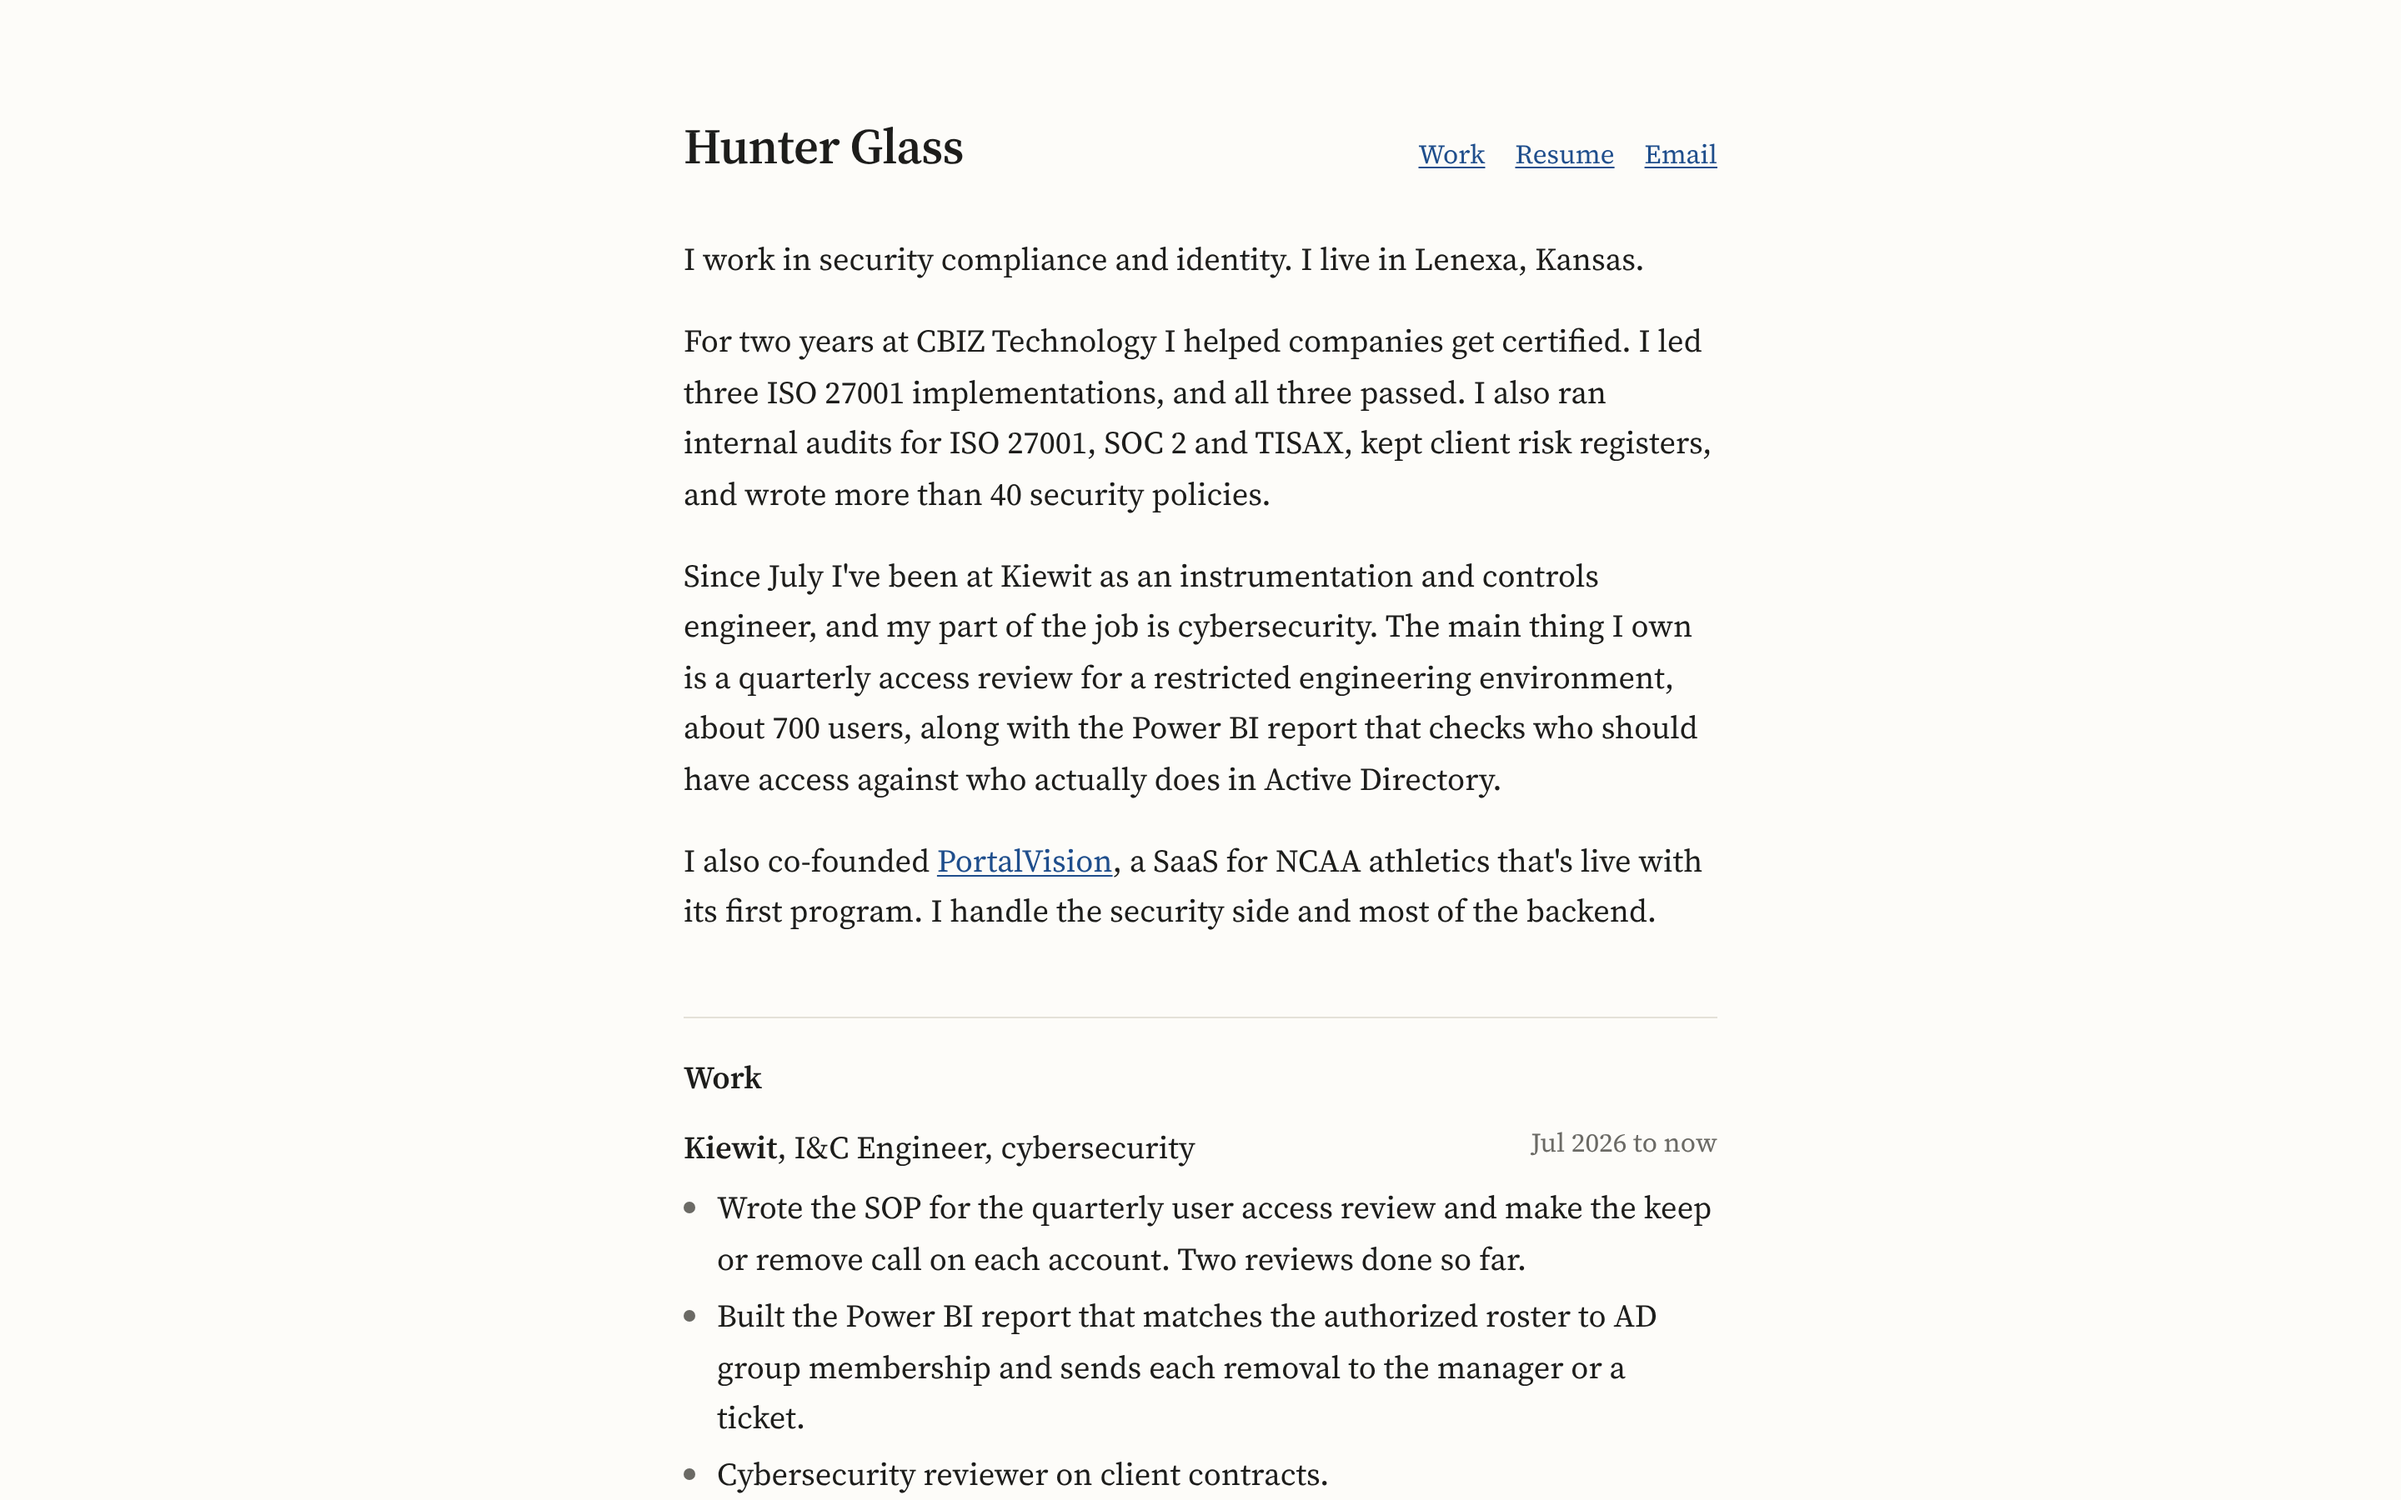
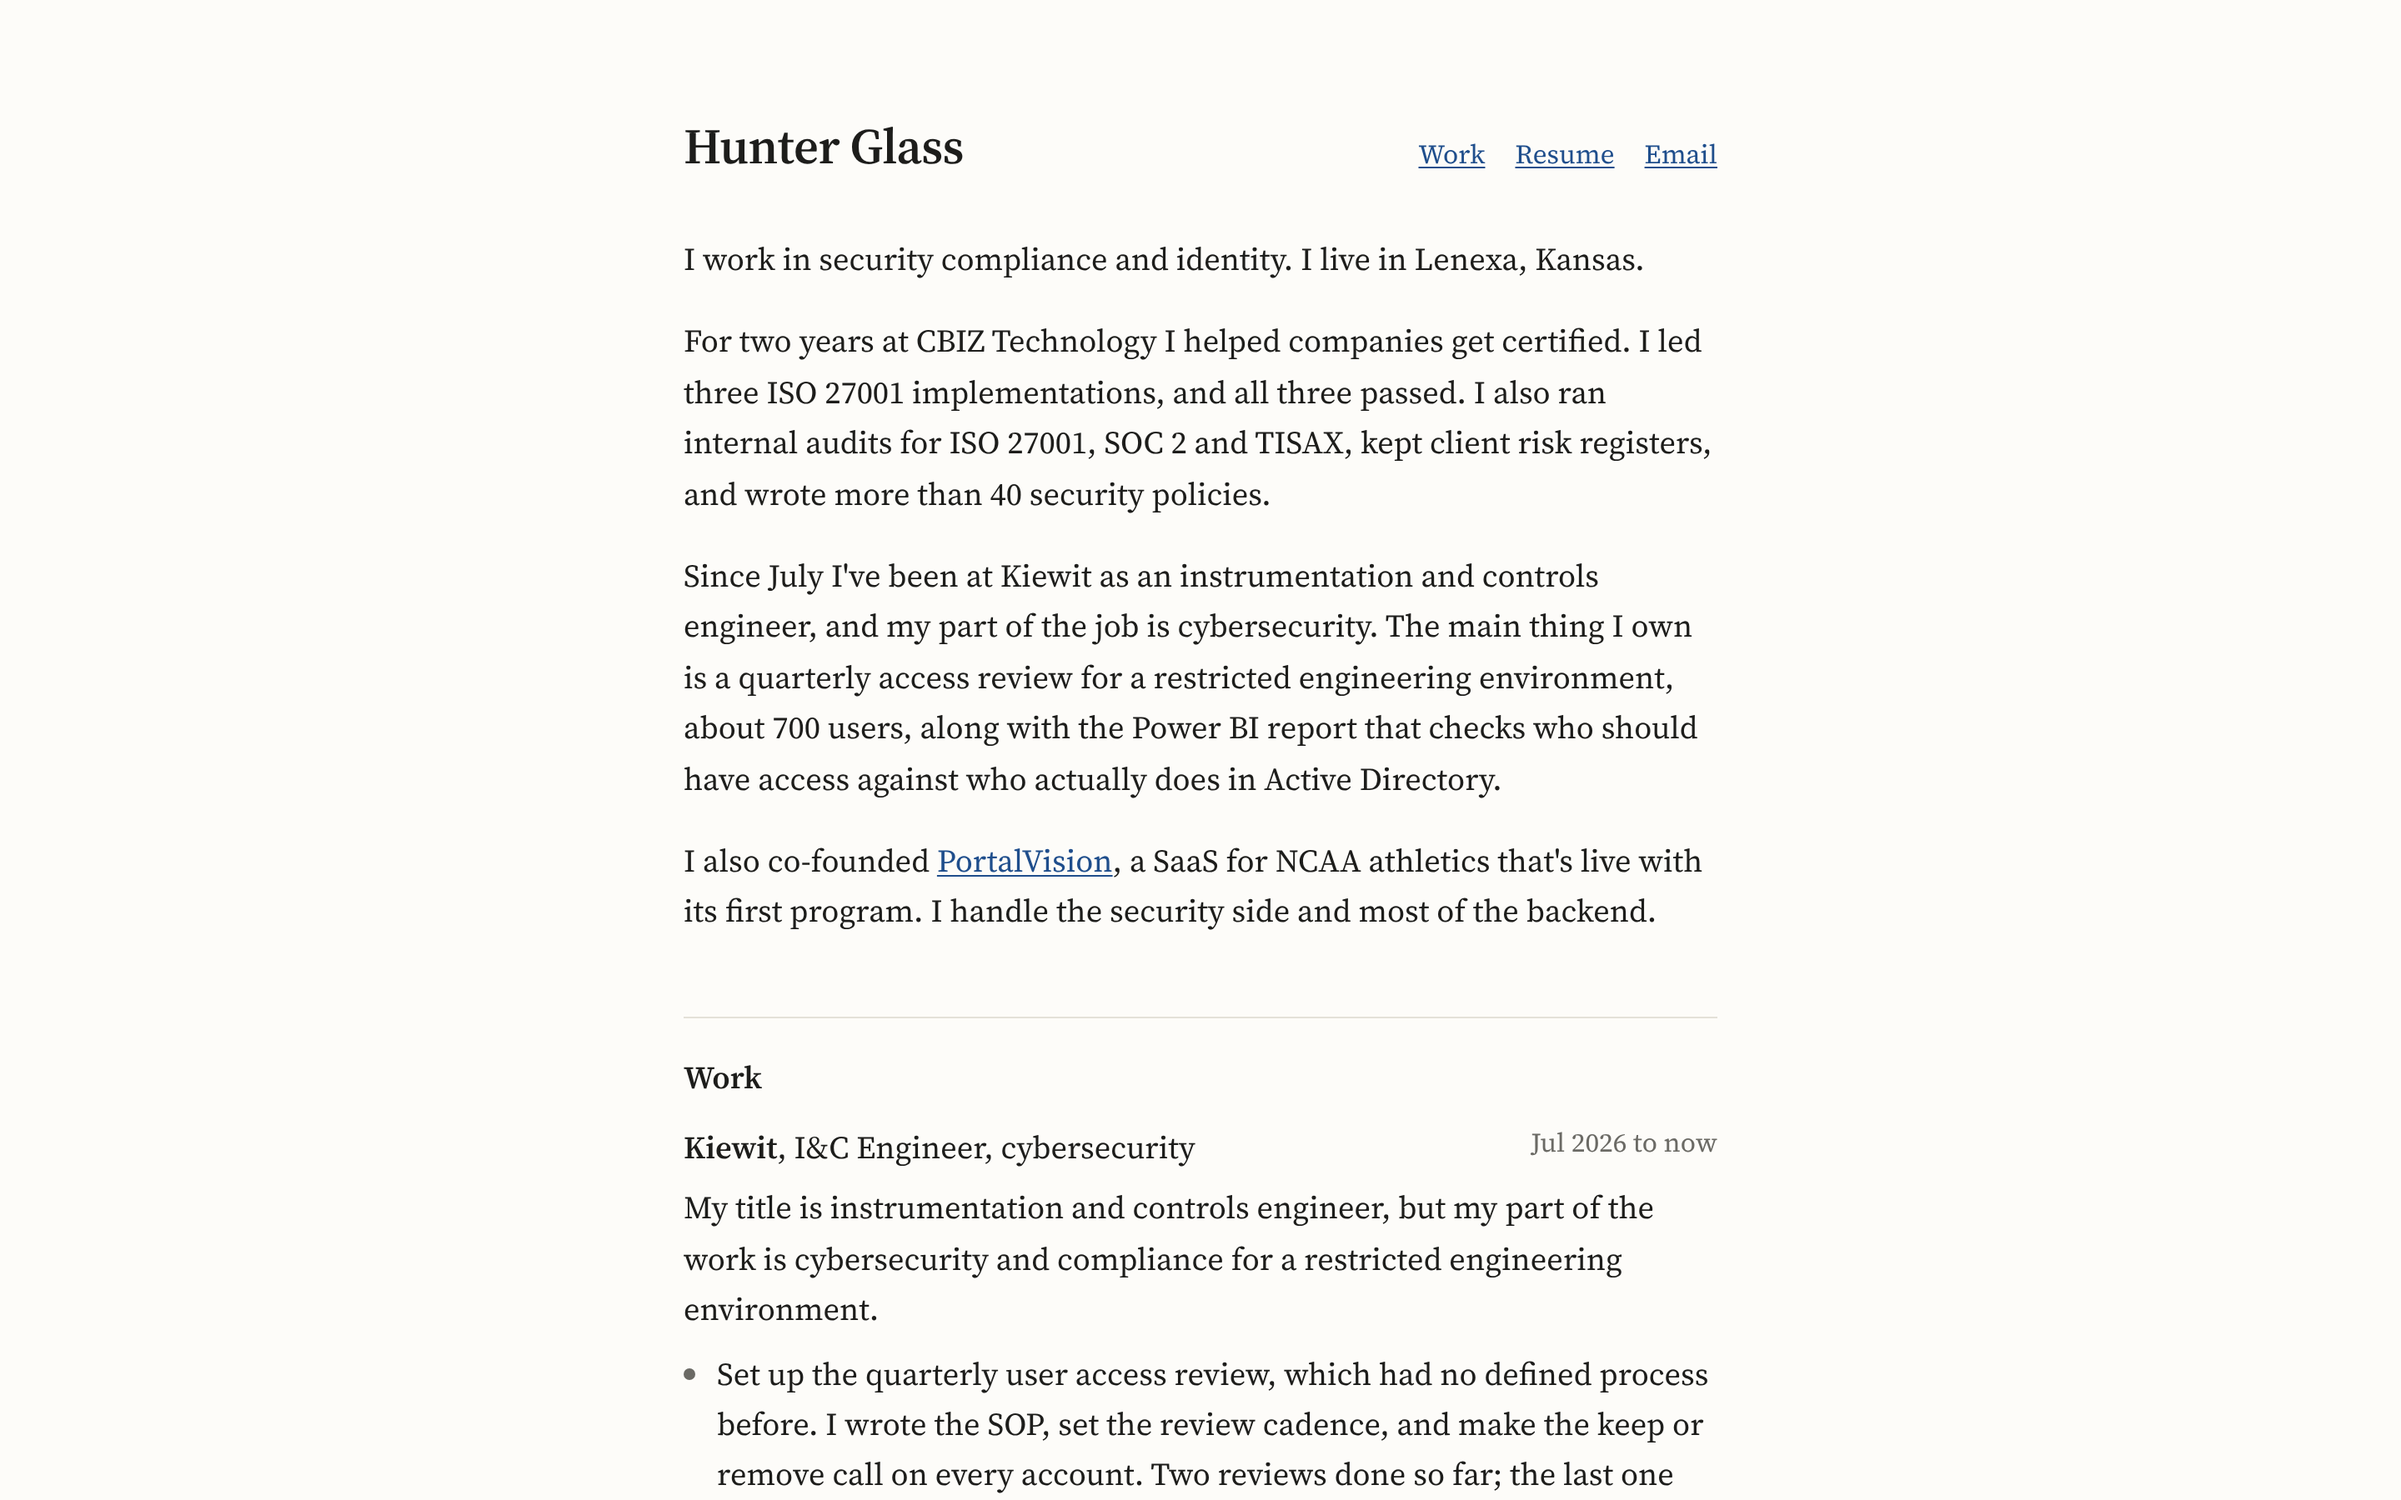
v2 mockup: more detail per role, drop defense client mention
Claude-Session: https://claude.ai/code/session_01DpS9wjtpXu1pRZzCnkWoig

Changed region(s): [[0.2812, 0.7778, 0.7188, 0.9956]]

diff --git a/mockup/v2/index.html b/mockup/v2/index.html
@@ -47,11 +47,12 @@
     }
     p { margin: 0 0 1em; }
 
-    .job { margin-bottom: 26px; }
+    .job { margin-bottom: 34px; }
     .job__top { display: flex; justify-content: space-between; gap: 16px; flex-wrap: wrap; }
     .job__top b { font-weight: 600; }
     .when { color: var(--dim); font-size: 16px; font-variant-numeric: tabular-nums; white-space: nowrap; }
-    .job ul { margin: 6px 0 0; padding-left: 20px; }
+    .job p { margin: 6px 0 0; }
+    .job ul { margin: 8px 0 0; padding-left: 20px; }
     .job li { margin-bottom: 4px; }
     .job li::marker { color: var(--dim); }
 
@@ -100,48 +101,67 @@
 
     <div class="job">
       <div class="job__top"><span><b>Kiewit</b>, I&amp;C Engineer, cybersecurity</span><span class="when">Jul 2026 to now</span></div>
+      <p>My title is instrumentation and controls engineer, but my part of the work is cybersecurity and compliance for a restricted engineering environment.</p>
       <ul>
-        <li>Wrote the SOP for the quarterly user access review and make the keep or remove call on each account. Two reviews done so far.</li>
-        <li>Built the Power BI report that matches the authorized roster to AD group membership and sends each removal to the manager or a ticket.</li>
-        <li>Cybersecurity reviewer on client contracts.</li>
-        <li>Drafted redlines to an industry working group's response to DOE grid cybersecurity policy. They made it into the final draft.</li>
+        <li>Set up the quarterly user access review, which had no defined process before. I wrote the SOP, set the review cadence, and make the keep or remove call on every account. Two reviews done so far; the last one covered about 700 users.</li>
+        <li>Built a Power BI report that joins the authorized roster to Active Directory group membership. It flags anyone in the group who lacks the required authorization or background check, and anyone whose access lapsed but who is still in the group, then routes each removal to their manager or a ticket.</li>
+        <li>Maintain the company's compliance documentation set.</li>
+        <li>Act as the cybersecurity reviewer on client contracts: I answer the security questions and send clients feedback on their security requirements.</li>
+        <li>Drafted redlines to an industry supply chain working group's response to DOE grid cybersecurity policy (Jul to Sep 2026). My redlines were adopted in the final draft.</li>
       </ul>
     </div>
 
     <div class="job">
       <div class="job__top"><span><b>PortalVision</b>, Co-founder</span><span class="when">Apr 2025 to now</span></div>
+      <p>A multi-tenant SaaS for NCAA athletics, live with its first program. I own the security and software stack.</p>
       <ul>
-        <li>Built the auth layer on Auth0: JWT and refresh-token validation (audience, issuer, user still active) and three levels of roles enforced in the database.</li>
-        <li>Tenant isolation, CORS and bearer-token checks on the API.</li>
-        <li>React, Spring Boot, PostgreSQL and Docker, hosted on Render.</li>
+        <li>Built the authentication layer on Auth0. The API validates JWTs and refresh tokens on audience, issuer, and whether the user is still active.</li>
+        <li>Designed three-tier role-based access (site admin, org admin, user) enforced in the application database, with tenant isolation across the data model so one program never sees another's data.</li>
+        <li>Locked down the API with a CORS policy and bearer-token checks on every call.</li>
+        <li>Own the Spring Security configuration, controllers, JPA layer, SQL schema and migrations.</li>
+        <li>Containerized development and deployment with Docker (Postgres, pgAdmin) and wrote the Python ingestion that loads data into Postgres.</li>
+        <li>Stack: React, Spring Boot, PostgreSQL, Auth0, Docker, hosted on Render.</li>
       </ul>
     </div>
 
     <div class="job">
       <div class="job__top"><span><b>CBIZ Technology</b>, Associate Consultant</span><span class="when">Jul 2024 to Jun 2026</span></div>
+      <p>I was the primary consultant on every engagement I had, usually 8 to 10 at once, for SaaS, automotive and financial services clients.</p>
       <ul>
-        <li>Ran 8 to 10 client engagements at a time: SaaS, defense, automotive and financial services.</li>
-        <li>Led 3 ISO 27001 implementations through Stage 2. All 3 certified; one also got ISO 27701.</li>
-        <li>Fieldwork and control testing on 18+ audits, including 5 TISAX AL3 readiness audits.</li>
-        <li>Vendor risk reviews, risk registers, and tracking pentest findings against patch SLAs.</li>
-        <li>Worked in Drata and Vanta.</li>
+        <li>Led 3 ISO 27001 implementations end to end: wrote the policy set, ran the risk assessment, and took each client through Stage 1 and Stage 2. All 3 certified. One also certified to ISO 27701 as a processor, which meant building out the DPA, ROPA and PII inventory.</li>
+        <li>Ran fieldwork and control testing on 18+ audits: ISO 27001 internal audits in Vanta, SOC 2 internal audits against Security and Availability, and TISAX.</li>
+        <li>Ran 5 internal audits of clients' TISAX AL3 readiness, completed their VDA ISA self-assessments, and led 1 TISAX implementation.</li>
+        <li>Built and kept client risk registers from an SCF-based gap assessment, pentest findings and internal risks. I recommended treatment and tracked the client's remediation.</li>
+        <li>Reviewed vendor security inside ISO 27001 engagements: read vendor SOC 2 reports and questionnaires, tiered vendors by risk, scored inherent and residual risk, and checked the security clauses in contracts.</li>
+        <li>Tracked pentest findings against each client's vulnerability management SLA by CVSS score and escalated anything past the patch deadline to the risk register.</li>
+        <li>Mapped controls, policies and evidence in Drata for ISO 27001 and 27701, and told clients exactly which AWS, GCP and Okta evidence to pull.</li>
+        <li>Wrote 40+ security policies and procedures (access management, change management, incident response, SDLC), each with a named control owner.</li>
+        <li>Closed a Stage 2 gap by writing a client's backup procedure. They passed the backup and restore test and certified.</li>
+        <li>Helped build client business continuity and disaster recovery documentation and vetted a client's security awareness training program.</li>
       </ul>
     </div>
 
     <div class="job">
       <div class="job__top"><span><b>CBIZ</b>, IT / Internal Audit Intern</span><span class="when">2024</span></div>
       <ul>
-        <li>Tested IT general controls against SOX and FDICIA.</li>
+        <li>Tested cybersecurity controls and IT general controls against FDICIA and SOX, and wrote up the high-risk findings in priority order for clients to fix.</li>
       </ul>
     </div>
 
     <h2>School</h2>
     <p>
-      M.S. in Computer Science from the University of Kansas (2023), focused on security: reverse
-      engineering, binary exploitation, network security and cryptography. My master's project was
-      MeshMapper, the device-mapping piece of a KU research project on secure Bluetooth mesh networks.
+      M.S. in Computer Science from the University of Kansas (Dec 2023), focused on security. Coursework
+      covered reverse engineering, binary exploitation, network security, cryptography, and IoT and
+      mobile security. In the labs I wrote buffer overflow exploits through to remote code execution
+      using Ghidra, GDB, Metasploit, Wireshark and nmap.
     </p>
-    <p>B.S. in Computer Science from KU (2022), with a cybersecurity certificate.</p>
+    <p>
+      My master's project was MeshMapper, the device-mapping platform for a KU research project on
+      secure Bluetooth mesh networks with encryption key rotation on ESP32 devices. It maps the mesh
+      devices inside a region you draw and checks that the network is reachable and reliable across it.
+      Built in JavaScript and HTML, hosted on GCP.
+    </p>
+    <p>B.S. in Computer Science from KU (May 2022), with a cybersecurity certificate.</p>
 
     <h2>Certifications</h2>
     <p>CompTIA Security+ (2025) and ISO/IEC 27001 Implementer (2025).</p>
